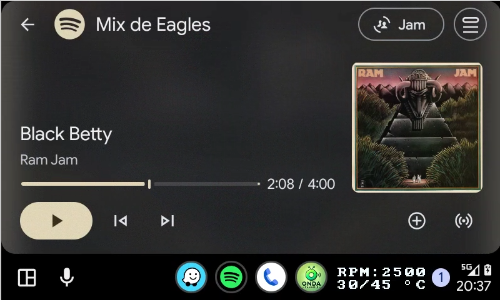
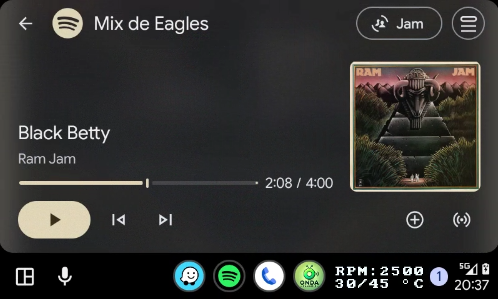
README: cosmetics

diff --git a/README.md b/README.md
@@ -209,9 +209,7 @@ aa-proxy-rs can draw a small text box with any text you provide directly on the 
 The phone video is decoded, the text is rendered and the stream is re-encoded to H.264 Constrained Baseline, using either a pure-Rust software codec
 (no external programs, system libraries or kernel configuration needed) or hardware acceleration via Linux V4L2 M2M on supported boards (e.g. Raspberry Pi 3/4/Zero 2 W with `bcm2835-codec`; the Raspberry Pi 5 is **not** supported, it has no hardware H.264 encoder).
 
-![](images/overlay1.png)
-![](images/overlay2.png)
-![](images/overlay3.png)
+<img src="images/overlay1.png" width="33%"> <img src="images/overlay2.png" width="33%"> <img src="images/overlay3.png" width="33%">
 
 **It is disabled by default** and does not touch the video path unless you enable it in `config.toml` (it requires `mitm = true`):
 ```toml
